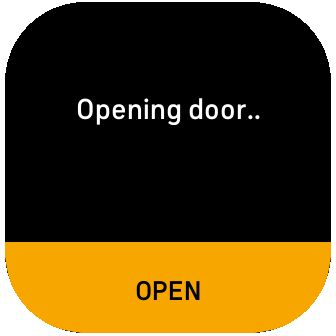
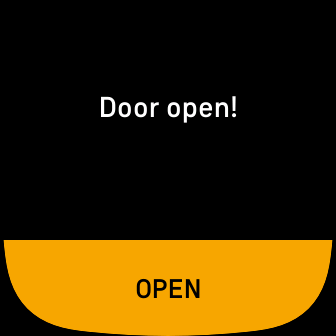
Changed readme

Changed region(s): [[0.0, 0.0, 1.0, 1.0], [0.2083, 0.2679, 0.7738, 0.3869], [0.3869, 0.8333, 0.5952, 0.8929]]

diff --git a/README.md b/README.md
@@ -1,6 +1,6 @@
 # Garage door opener
 
-![](screenshots/app.png)
+![](screenshots/app-without-background.png)
 ![](screenshots/menu.png)
 
 ## Development setup
@@ -20,7 +20,12 @@ npx fitbit
 fitbit$ bi
 ```
 
+## Deployment
+1. Build app using the instructions above
+2. Log in to - https://gam.fitbit.com
+3. Create app and upload `build/app.fba- https://gam.fitbit.com/`
+
+
 ## Resources
 - https://studio.fitbit.com
 - https://dev.fitbit.com/build/guides/command-line-interface/
-- https://gam.fitbit.com/
